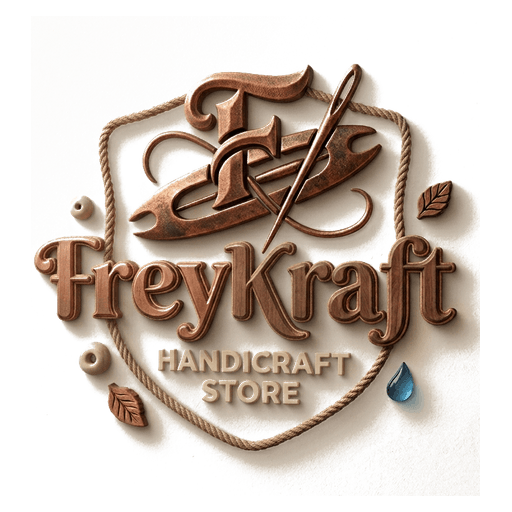
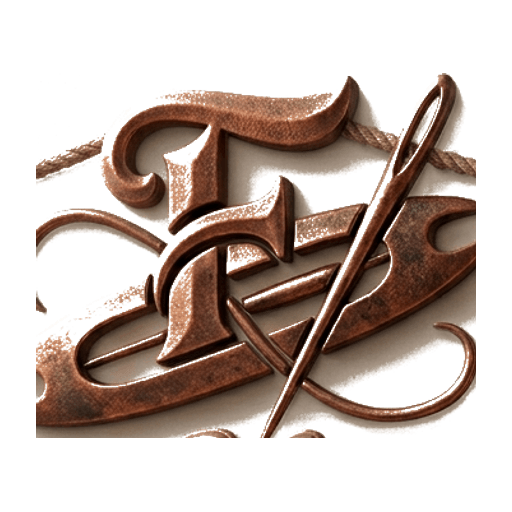
Fix mobile menu overlay and refine small-size brand mark
- Portal the mobile menu overlay to document.body: the fixed header's
  backdrop-filter made it the containing block for fixed-position
  descendants, clamping the overlay to the 70px header strip and
  leaving menu links floating transparently over page content
- Force the overlay hidden at lg+ regardless of utility cascade order
- Use the copper F-monogram crop for the header mark and favicon;
  the full shield (with its small internal lettering) stays legible
  only at footer sizes
- Give build-pages a clear error when the api folder is locked by a
  running dev server instead of an uncaught EPERM

diff --git a/src/components/MobileNav.tsx b/src/components/MobileNav.tsx
@@ -2,12 +2,23 @@
 
 import Link from "next/link";
 import { Menu, X } from "lucide-react";
-import { useEffect, useState } from "react";
+import { useEffect, useState, useSyncExternalStore } from "react";
+import { createPortal } from "react-dom";
 import { BrandMark } from "@/components/BrandMark";
 import { navItems } from "@/data/storefront";
 
+const subscribeNoop = () => () => {};
+
 export function MobileNav() {
   const [open, setOpen] = useState(false);
+  // The overlay must portal to <body>: the fixed header's backdrop-filter
+  // makes it the containing block for position:fixed descendants, which
+  // would clamp the overlay to the header's 70px box.
+  const mounted = useSyncExternalStore(
+    subscribeNoop,
+    () => true,
+    () => false,
+  );
 
   useEffect(() => {
     document.body.style.overflow = open ? "hidden" : "";
@@ -16,22 +27,13 @@ export function MobileNav() {
     };
   }, [open]);
 
-  return (
-    <div className="lg:hidden">
-      <button
-        type="button"
-        onClick={() => setOpen(true)}
-        aria-label="Open menu"
-        aria-expanded={open}
-        className="inline-flex size-11 items-center justify-center text-ink transition hover:text-terracotta"
-      >
-        <Menu aria-hidden="true" className="size-6" />
-      </button>
-
-      <div
-        className={["fk-mobile-overlay", open ? "is-open" : ""].join(" ")}
-        aria-hidden={!open}
-      >
+  const overlay = (
+    <div
+      className={["fk-mobile-overlay lg:hidden", open ? "is-open" : ""].join(
+        " ",
+      )}
+      aria-hidden={!open}
+    >
         <div className="flex items-center justify-between border-b border-hairline px-5 py-4 sm:px-8">
           <BrandMark />
           <button
@@ -59,10 +61,24 @@ export function MobileNav() {
             </Link>
           ))}
         </nav>
-        <p className="px-7 pb-10 text-[11px] font-medium uppercase tracking-[0.16em] text-muted">
-          Maker-led home decor &amp; gifts
-        </p>
-      </div>
+      <p className="px-7 pb-10 text-[11px] font-medium uppercase tracking-[0.16em] text-muted">
+        Maker-led home decor &amp; gifts
+      </p>
+    </div>
+  );
+
+  return (
+    <div className="lg:hidden">
+      <button
+        type="button"
+        onClick={() => setOpen(true)}
+        aria-label="Open menu"
+        aria-expanded={open}
+        className="inline-flex size-11 items-center justify-center text-ink transition hover:text-terracotta"
+      >
+        <Menu aria-hidden="true" className="size-6" />
+      </button>
+      {mounted && createPortal(overlay, document.body)}
     </div>
   );
 }

diff --git a/src/components/BrandMark.tsx b/src/components/BrandMark.tsx
@@ -15,11 +15,13 @@ export function BrandMark({ inverse = false, large = false }: BrandMarkProps) {
       aria-label="Freykraft home"
     >
       <Image
-        src={publicAssetPath("/images/freykraft-logo.png")}
+        src={publicAssetPath(
+          large ? "/images/freykraft-logo.png" : "/images/freykraft-mark.png",
+        )}
         alt=""
         aria-hidden="true"
-        width={large ? 64 : 42}
-        height={large ? 68 : 45}
+        width={large ? 64 : 46}
+        height={large ? 68 : 38}
         priority
         className="shrink-0 transition-transform duration-500 group-hover:scale-105"
       />

diff --git a/src/app/globals.css b/src/app/globals.css
@@ -410,6 +410,12 @@ html.fk-scrolled .fk-header {
   transition-delay: calc(var(--fk-i, 0) * 60ms + 120ms);
 }
 
+@media (min-width: 1024px) {
+  .fk-mobile-overlay {
+    display: none;
+  }
+}
+
 @media (prefers-reduced-motion: reduce) {
   html {
     scroll-behavior: auto;